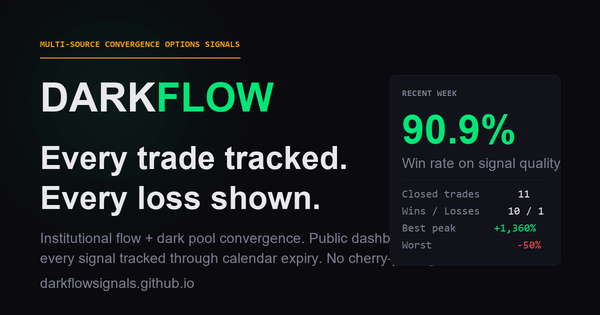
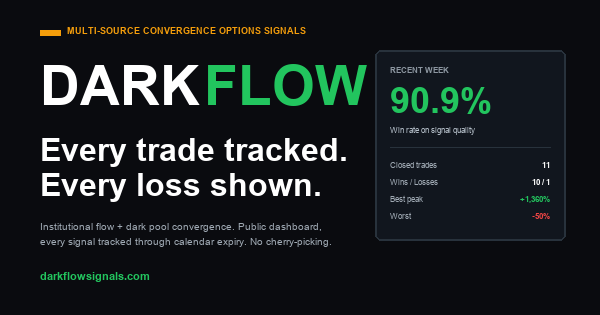
Site: regen og-image with .com URL + Referrer-Policy meta + minor
- og-image.png and og-image-small.png regenerated. Old PNGs had hardcoded
  'darkflowsignals.github.io' baked into the bottom of the image, which
  social-share previews would still show even after the DNS switch. New PNGs
  match brand identity (DARK white + FLOW green, multi-source convergence
  tagline, recent week stats card) and end with darkflowsignals.com.
- Referrer-Policy: strict-origin-when-cross-origin added via meta on both
  index.html and dashboard.html. The other audit-flagged headers
  (X-Frame-Options, X-Content-Type-Options nosniff) cannot be set via meta
  and require Cloudflare proxy. Plan documented at docs/CLOUDFLARE_MIGRATION.md.

Changed region(s): [[0.06, 0.0857, 0.96, 0.9143], [0.63, 0.1429, 0.93, 0.1714]]

diff --git a/dashboard.html b/dashboard.html
@@ -25,6 +25,7 @@
 
 <!-- CSP via meta (GitHub Pages doesn't support _headers; full set via Cloudflare proxy if migrated) -->
 <meta http-equiv="Content-Security-Policy" content="default-src 'self'; style-src 'self' 'unsafe-inline' https://fonts.googleapis.com; font-src https://fonts.gstatic.com; img-src 'self' data: https:; script-src 'self' 'unsafe-inline'; connect-src 'self'; frame-ancestors 'none'; base-uri 'self'; form-action 'self'">
+<meta name="referrer" content="strict-origin-when-cross-origin">
 <script type="application/ld+json">
 {
   "@context": "https://schema.org",

diff --git a/index.html b/index.html
@@ -32,6 +32,7 @@
 
 <!-- CSP via meta (GitHub Pages doesn't support _headers; full set via Cloudflare proxy if migrated) -->
 <meta http-equiv="Content-Security-Policy" content="default-src 'self'; style-src 'self' 'unsafe-inline' https://fonts.googleapis.com; font-src https://fonts.gstatic.com; img-src 'self' data: https:; script-src 'self' 'unsafe-inline'; connect-src 'self'; frame-ancestors 'none'; base-uri 'self'; form-action 'self'">
+<meta name="referrer" content="strict-origin-when-cross-origin">
 <script type="application/ld+json">
 {
   "@context": "https://schema.org",
